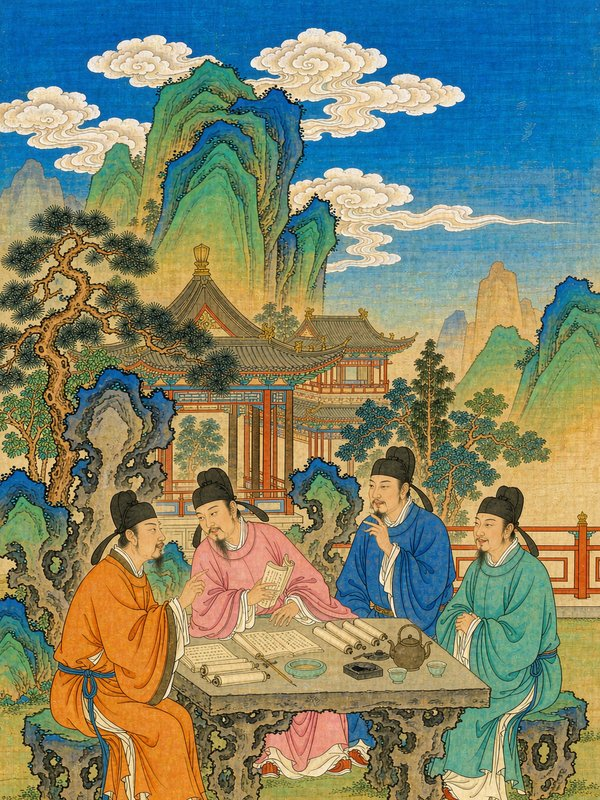
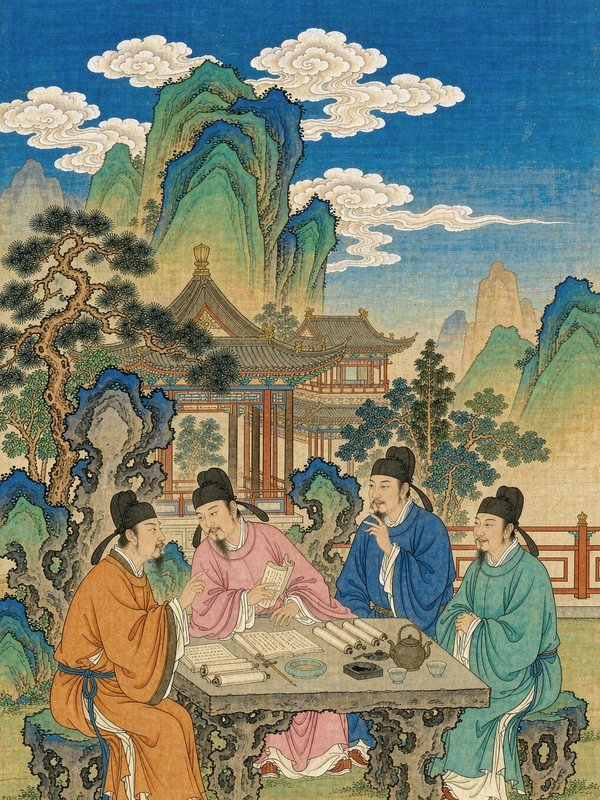
余录 v1.5.4：评论底图饱和度降至72%，comment.jpg?v=4 + SW v43

diff --git a/index.html b/index.html
@@ -557,7 +557,7 @@ const CHANNEL_COLOR = { '影视': '#5b4a6b', '评论': '#4a6670', '经济': '#8a
 /* 分类卡片底图：水墨国风插画（art/ 下 5 张，按渠道对应意境）*/
 function channelArt(id) {
   // ?v=N 版本参数：换图时把对应图 +1，绕过 GitHub Pages CDN 旧缓存，确保用户拿到新图
-  const art = { book: 'art/book.jpg?v=2', film: 'art/film.jpg?v=3', comment: 'art/comment.jpg?v=3', econ: 'art/econ.jpg?v=14', essay: 'art/essay.jpg?v=3' };
+  const art = { book: 'art/book.jpg?v=2', film: 'art/film.jpg?v=3', comment: 'art/comment.jpg?v=4', econ: 'art/econ.jpg?v=14', essay: 'art/essay.jpg?v=3' };
   return art[id] || '';
 }
 

diff --git a/sw.js b/sw.js
@@ -1,5 +1,5 @@
 /* 余录 · Service Worker —— 离线缓存 + PWA 安装支持 */
-const CACHE = 'yulu-v42';
+const CACHE = 'yulu-v43';
 const APP_SHELL = [
   './',
   './index.html',
@@ -8,7 +8,7 @@ const APP_SHELL = [
   './icon-512.png',
   './art/book.jpg?v=2',
   './art/film.jpg?v=3',
-  './art/comment.jpg?v=3',
+  './art/comment.jpg?v=4',
   './art/econ.jpg?v=14',
   './art/essay.jpg?v=3'
 ];

diff --git a/PROJECT.md b/PROJECT.md
@@ -77,6 +77,7 @@ git add -A && git commit -m "余录 vX.X：改动说明" && git push origin main
 - **v1.5.1**：换行排版修复——卡片「原文/理解」与详情「理解/举例/注意点」加 `whitespace-pre-wrap`，用户在编辑框里另起的行、空行，保存后原样显示
 - **v1.5.2**：书名/作者自动拆分——新增 `parseSource()`：`《书名》作者`/`书名·作者`/`书名（作者）`自动分字段存；无分隔粘连（如「梦溪笔谈沈括」）用知名作者词典兜底；篇章名（《孟子》梁惠王上、论语·学而）不算作者。`normalizeData` 自动修复历史粘错的书（书名拆开+补作者，修完立即落盘并随同步回推云端）；`matchOrCreateBook` 命中缺作者的书时顺手补作者
 - **v1.5.3**：「评论」分类底图重绘——古人谈古论今（四色长袍）+ 亭台园林背景 + 上方蓝天白云，明亮重彩风对齐「经济」底图色调（ImageGen 生成，裁掉水印后 600×800）；`comment.jpg?v=3` + SW `yulu-v42`
+- **v1.5.4**：评论底图饱和度下调至 72%（用户反馈太艳；构图不动，PIL ImageEnhance.Color 处理）；`comment.jpg?v=4` + SW `yulu-v43`。生成原图 PNG 留在 /tmp 会丢，调色基准以 git 历史里的 v3 版为准
 
 ## 待办 / 备忘
 
